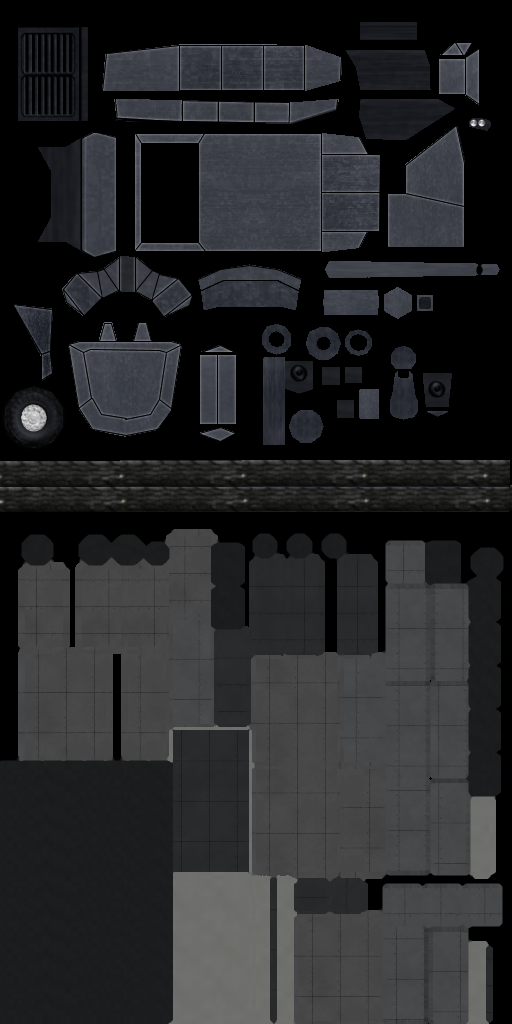
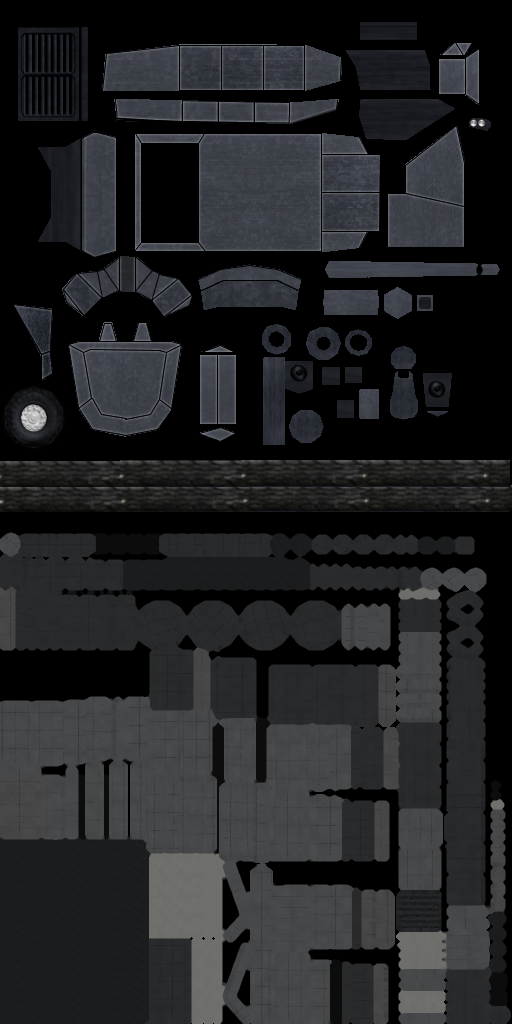
Hailstorm: new model and portrait, shoots ground units too, faster guns
Claude-Session: https://claude.ai/code/session_01EkPmahzyK6V8ySuXW9Qoxj

Changed region(s): [[0.0, 0.5, 1.0, 1.0]]

diff --git a/art/models_variants.py b/art/models_variants.py
@@ -24,18 +24,31 @@ def bastion():
 
 @model
 def flak_carrier():
-    """T2 Hailstorm: the Dragoon with a twin flak gun and a fire-control radar."""
+    """T2 Hailstorm: the Dragoon with a turret-top fire-control radar, side ammo drums, armoured gun mantlets and
+    two long finned flak barrels with muzzle brakes."""
     k = Variant("flak_carrier", "dragoon", 0.175)
     k.on("Turret", "Hailstorm_Radar")
-    k.box((0.1, 0.1, 0.35), (0, 0.38, 1.55), "steel_d")
-    k.box((0.55, 0.05, 0.28), (0, 0.42, 1.78), "white", faces={"back": "steel_d"})
+    # radar mast on the turret's rear deck, dish facing forward, a small whip antenna beside it
+    k.box((0.34, 0.34, 0.1), (0, 0.42, 0.97), "steel", faces={"top": "vent"}, bevel=0.02)
+    k.box((0.09, 0.09, 0.42), (0, 0.42, 1.2), "steel_d")
+    k.box((0.7, 0.05, 0.34), (0, 0.38, 1.5), "white", faces={"back": "steel_d"}, bevel=0.01)
+    k.box((0.12, 0.08, 0.08), (0, 0.4, 1.5), "black")
+    k.cyl(0.012, 0.5, (0.26, 0.5, 0.95), "black", axis="z", seg=6)
     for s in (-1, 1):
-        k.box((0.14, 0.4, 0.3), (s * 0.5, 0.05, 0.95), "team", faces={"top": "steel"})  # ammo boxes
+        # ammunition drums on the turret flanks, with team-coloured end plates
+        k.cyl(0.19, 0.5, (s * 0.52, 0.25, 0.78), "steel", axis="y", seg=12, caps={0: "steel_d", 1: "steel_d"})
+        k.box((0.06, 0.46, 0.06), (s * 0.52, 0.5, 0.97), "team")
+        k.box((0.16, 0.5, 0.34), (s * 0.4, 0.1, 0.7), "steel_d", bevel=0.02)
     k.on("Turret_Barrel", "Hailstorm_Guns")
+    # armoured cradle across both guns
+    k.box((0.62, 0.34, 0.34), (0, -0.3, 0.72), "steel", faces={"top": "team"}, bevel=0.03)
     for s in (-1, 1):
-        k.box((0.12, 0.35, 0.14), (s * 0.15, -0.3, 0.7), "steel")
-        k.cyl(0.035, 1.0, (s * 0.15, -0.45, 0.72), "gun", axis="-y", seg=8)
-        k.cyl(0.05, 0.14, (s * 0.15, -1.38, 0.72), "gun", axis="-y", seg=8)
+        x = s * 0.2
+        k.box((0.14, 0.3, 0.24), (x, -0.5, 0.72), "steel_d", bevel=0.02)  # mantlet
+        k.cyl(0.062, 0.62, (x, -0.62, 0.72), "steel", axis="-y", seg=10)  # cooling sleeve
+        k.cyl(0.036, 1.55, (x, -0.55, 0.72), "gun", axis="-y", seg=8)  # barrel
+        k.cyl(0.058, 0.12, (x, -1.36, 0.72), "steel_d", axis="-y", seg=8)  # fume extractor
+        k.cyl(0.062, 0.2, (x, -2.0, 0.72), "gun", axis="-y", seg=8, r2=0.05)  # muzzle brake
     return k
 
 

diff --git a/CHANGELOG.md b/CHANGELOG.md
@@ -5,6 +5,10 @@ Each `## vX.Y.Z` section is used as the text of the GitHub release with that tag
 
 ## Unreleased
 
+- Hailstorm («Град»): new model (radar mast, ammo drums, armoured mantlets, finned barrels with muzzle brakes) and a
+  new 3/4 portrait. It now also shoots at ground units and infantry, hits a little harder (14 -> 16 per shell) and its
+  guns slew faster (120 -> 180 deg/s, the SAM Trooper's turn 150) with no aim delay (the SAM Trooper's is 0.6 s).
+
 ## v0.15.1
 
 Maps
